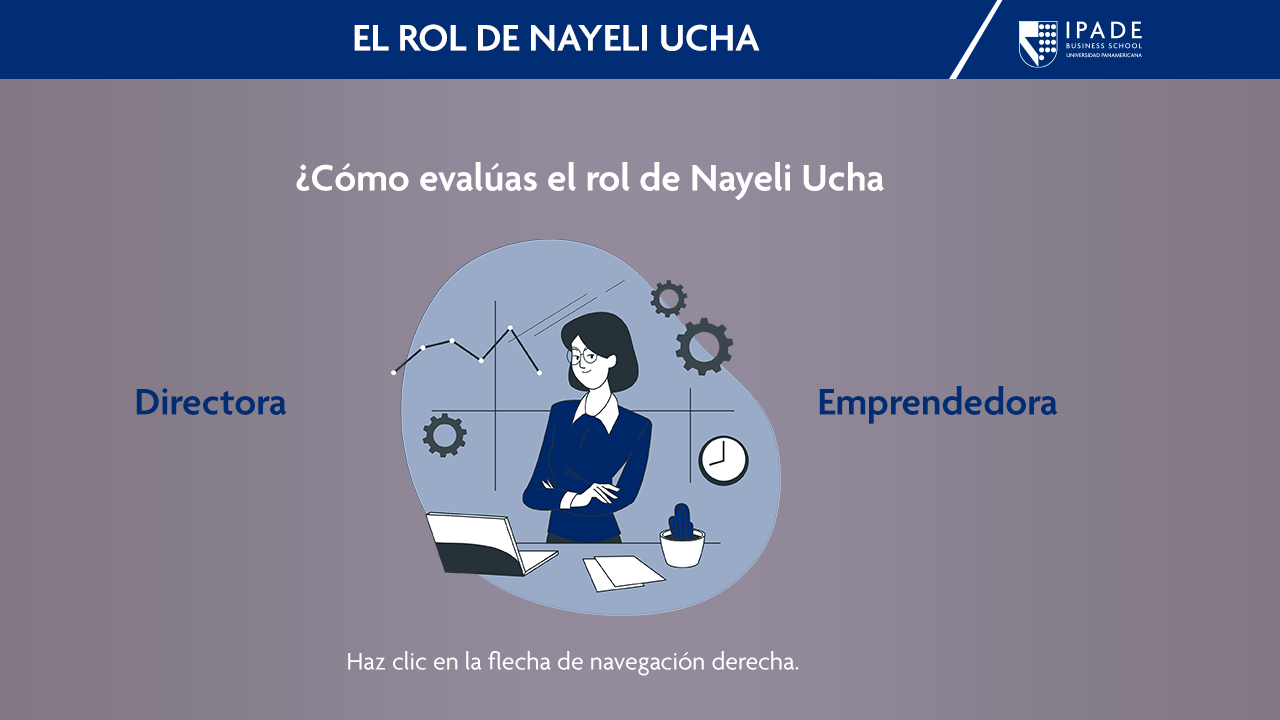
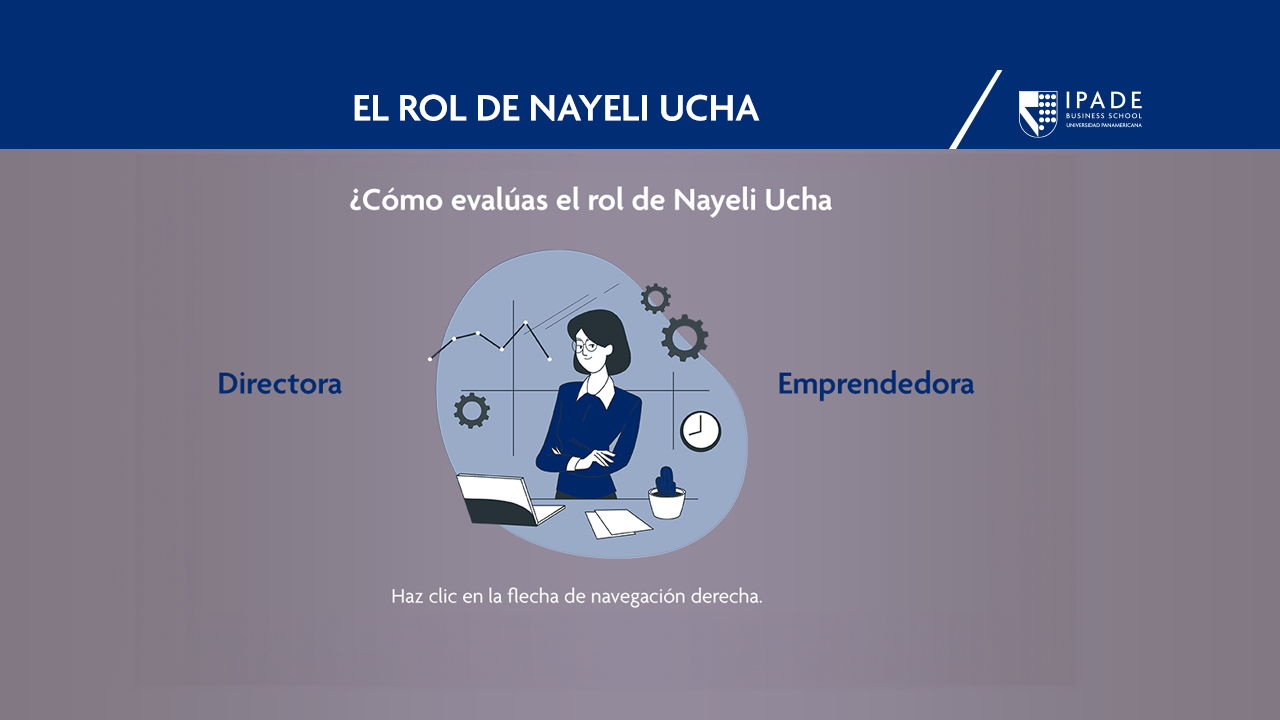
init

Changed region(s): [[0.0, 0.0, 1.0, 0.8556], [0.2812, 0.8861, 0.625, 0.9472], [0.0938, 0.5194, 0.2812, 0.5806]]

diff --git a/contenido3.html b/contenido3.html
@@ -48,7 +48,7 @@
       <h1 class="titulo">En general, ¿cómo evalúas a Nayeli Ucha como emprendedora?</h1>
       <p style="color: white; font-size: 18px;">Ahora, evalúa el trabajo de Nayeli como emprendedora con base en los siguientes criterios:</p><br><br>
       <div class="conte_imagenes" id="item1">
-        <div class="item" id="item1" onclick="goToPage('page2', 'siguiente2')">
+        <div class="item" id="item1" onclick="goToPage('page2', 'siguiente2', 'explicacion1', 'subtitulo1')">
           <img src="images/img2_01_sm.png" alt="Imagen 1">
           <p class="texto_imagen">Proponer ideas relevantes</p>
         </div>
@@ -68,7 +68,7 @@
 
     <!-- Página 2 -->
     <div id="page2" class="pagina hidden">
-      <div class="subtitulo" id="subtitulo1">Rentabilidad</div>
+      <div class="subtitulo" id="subtitulo1">Proponer ideas relevantes</div>
       <h1 class="titulo">¿Qué tan buena es Nayeli proponiendo ideas relevantes? </h1>
       <div class="stars" data-page="2">
         <span class="star">&#9734;</span>
@@ -78,7 +78,7 @@
         <span class="star">&#9734;</span>
       </div>
       <p class="letras_blancas"><i>Haz clic en las estrellas para determinar tu evaluación.</i></p><br><br>
-      <div class="explicacion" id="explicacion"><i class="fa-regular fa-pen-to-square fa"></i>&nbsp;&nbsp;&nbsp;¿Por qué le otorgaste esa
+      <div class="explicacion" id="explicacion1"><i class="fa-regular fa-pen-to-square fa"></i>&nbsp;&nbsp;&nbsp;¿Por qué le otorgaste esa
         valoración?</div>
       <textarea id="comment2" placeholder="Escribe tu respuesta aquí…" class="responder"></textarea>
       <div class="siguiente" id="siguiente2" onclick="goToPageIntermediate('intermediate2', 'item2')">></div>
@@ -93,7 +93,7 @@
           <img src="images/img2_01_select.png" alt="Imagen 1">
           <p class="texto_imagen">Proponer ideas relevantes</p>
         </div>
-        <div class="item" id="item2" onclick="goToPage('page3', 'siguiente3')">
+        <div class="item" id="item2" onclick="goToPage('page3', 'siguiente3', 'explicacion2', 'subtitulo2')">
           <img src="images/img2_02_sm.png" alt="Imagen 2">
           <p class="texto_imagen">Atraer recursos</p>
         </div>
@@ -109,6 +109,7 @@
 
     <!-- Página 3 -->
     <div id="page3" class="pagina hidden">
+      <div class="subtitulo" id="subtitulo2">Atraer recursos</div>
       <h1 class="titulo">¿Qué tan buena es Nayeli atrayendo recursos para su empresa?</h1>
       <div class="stars" data-page="3">
         <span class="star">&#9734;</span>
@@ -118,7 +119,7 @@
         <span class="star">&#9734;</span>
       </div>
       <p class="letras_blancas"><i>Haz clic en las estrellas para determinar tu evaluación.</i></p><br><br>
-      <div class="explicacion" id="explicacion"><i class="fa-regular fa-pen-to-square fa"></i>&nbsp;&nbsp;&nbsp;¿Por qué le otorgaste esa
+      <div class="explicacion" id="explicacion2"><i class="fa-regular fa-pen-to-square fa"></i>&nbsp;&nbsp;&nbsp;¿Por qué le otorgaste esa
         valoración?</div>
       <textarea id="comment3" placeholder="Escribe tu respuesta aquí…" class="responder"></textarea>
       <div class="siguiente" id="siguiente3" onclick="goToPageIntermediate('intermediate3', 'item3')">></div>
@@ -137,7 +138,7 @@
           <img src="images/img2_02_select.png" alt="Imagen 2">
           <p class="texto_imagen">Atraer recursos</p>
         </div>
-        <div class="item"  id="item3" onclick="goToPage('page4', 'siguiente4')">
+        <div class="item"  id="item3" onclick="goToPage('page4', 'siguiente4', 'explicacion3', 'subtitulo3')">
           <img src="images/img2_03_sm.png" alt="Imagen 3">
           <p class="texto_imagen">Validar modelos de negocio</p>
         </div>
@@ -149,6 +150,7 @@
 
     <!-- Página 4 -->
     <div id="page4" class="pagina hidden">
+      <div class="subtitulo" id="subtitulo3">Validar modelos de negocio</div>
       <h1 class="titulo">¿Qué tan buena es Nayeli validando modelos de negocio? </h1>
       <div class="stars" data-page="4">
         <span class="star">&#9734;</span>
@@ -158,7 +160,7 @@
         <span class="star">&#9734;</span>
       </div>
       <p class="letras_blancas"><i>Haz clic en las estrellas para determinar tu evaluación.</i></p><br><br>
-      <div class="explicacion" id="explicacion"><i class="fa-regular fa-pen-to-square fa"></i>&nbsp;&nbsp;&nbsp;¿Por qué le otorgaste esa
+      <div class="explicacion" id="explicacion3"><i class="fa-regular fa-pen-to-square fa"></i>&nbsp;&nbsp;&nbsp;¿Por qué le otorgaste esa
         valoración?</div>
       <textarea id="comment4" placeholder="Escribe tu respuesta aquí…" class="responder"></textarea>
       <div class="siguiente" id="siguiente4" onclick="goToPageIntermediate('intermediate4', 'item4')">></div>
@@ -192,9 +194,10 @@
 
     <!-- Página de Resultados -->
     <div id="results" class="pagina hidden">
+      <h1 class="titulo">¿Cómo evalúas a Nayeli Ucha como emprendedora?</h1>
       <h1>Resultados</h1>
       <div id="resultList"></div>
-      <button id="finalBtn">Descargar resultados</button>
+      <button class="descargar" id="finalBtn">Descargar resultados</button>
     </div>
 
     <!-- Página Final -->
@@ -206,14 +209,15 @@
     <script>
       const ratings = [];
 
-      function goToPage(pageId,sigid) {
+      function goToPage(pageId,sigid,explicacionid,subtituloid) {
         document.querySelectorAll('div').forEach(div => {
           div.classList.add('hidden');
         });
         document.getElementById('bgcontenedor1').classList.remove('hidden');
-        document.getElementById('explicacion').classList.remove('hidden');
         document.getElementById(pageId).classList.remove('hidden');
+        document.getElementById(explicacionid).classList.remove('hidden');
         document.getElementById(sigid).classList.remove('hidden');
+        document.getElementById(subtituloid).classList.remove('hidden');
       }
 
       function goToPage2(pageId) {
@@ -258,25 +262,49 @@
       });
 
       // Agrega los nombres de las secciones aquí
-      const sectionNames = ['General', 'Rentabilidad', 'Competitividad', 'Permanencia'];
+      const sectionNames = ['General', 'Proponer ideas relevantes', 'Atraer recursos', 'Validar modelos de negocio'];
 
       function goToPageResults() {
-        goToPage2('results');
-        const resultList = document.getElementById('resultList');
-        resultList.innerHTML = '';
-        ratings.forEach((result, index) => {
-          const resultItem = document.createElement('div');
-          const rating = Array(result.rating).fill('&#9733;').join('') + Array(5 - result.rating).fill('&#9734;').join('');
-          const comment = document.getElementById(`comment${index + 1}`).value; // Obtener el valor del área de texto
-          resultItem.innerHTML = `
-      <h2>${sectionNames[index]}</h2>
-      <p>Rating: ${rating}</p>
-      <p>Comentario: ${comment}</p>
+  goToPage2('results');
+  const resultList = document.getElementById('resultList');
+  resultList.innerHTML = '';
+  
+  const table = document.createElement('table');
+  table.innerHTML = `
+    <thead>
+      <tr>
+        <th>Sección</th>
+        <th>Rating</th>
+        <th>Comentario</th>
+      </tr>
+    </thead>
+    <tbody>
+    </tbody>
+  `;
+  
+  const tbody = table.querySelector('tbody');
+
+  ratings.forEach((result, index) => {
+    const tr = document.createElement('tr');
+    
+    // Crear la representación de las estrellas
+    const rating = Array(result.rating).fill('&#9733;').join('') + Array(5 - result.rating).fill('&#9734;').join('');
+    
+    // Obtener el comentario del área de texto
+    const comment = document.getElementById(`comment${index + 1}`).value; 
+    
+    tr.innerHTML = `
+      <td>${sectionNames[index]}</td>
+      <td>${rating}</td>
+      <td>${comment}</td>
     `;
-          resultList.appendChild(resultItem);
-          resultList.classList.remove('hidden');
-        });
-      }
+    
+    tbody.appendChild(tr);
+  });
+
+  resultList.appendChild(table);
+  resultList.classList.remove('hidden');
+}
 
       window.onload = function () {
       document.getElementById('finalBtn').addEventListener('click', () => {
@@ -293,7 +321,7 @@
           const imgHeight = (canvas.height * imgWidth) / canvas.width;
 
           doc.addImage(imgData, 'PNG', 0, 0, imgWidth, imgHeight);
-          doc.save('Resultados_01.pdf'); // Descarga el archivo PDF
+          doc.save('Resultados_02.pdf'); // Descarga el archivo PDF
         });
       });
     };

diff --git a/style.css b/style.css
@@ -170,7 +170,7 @@ body {
   font-family: Arial, Helvetica, sans-serif;
   text-align: right;
   margin-left: 198px;
-  transform: translateX(10px);
+  transform: translateX(141px);
 }
 
 .flecha_izquierda {
@@ -816,7 +816,7 @@ body {
 
 .pagina {
   position: absolute;
-  margin-top: 133px;
+  margin-top: 168px;
   margin-left: 80px;
   width: 89%;
 }
@@ -944,8 +944,8 @@ body {
 
 .siguientebtn {
   position: absolute;
-  margin-top: -30px;
-  margin-left: 728px;
+  margin-top: -185px;
+  margin-left: 1081px;
   cursor: pointer;
   color: #f1e4b2;
   font-weight: bolder;
@@ -972,16 +972,16 @@ body {
   padding: 8px;
 }
 
-.letras_blancas{
+.letras_blancas {
   color: white;
 }
 
-.subtitulo{
+.subtitulo {
   color: white;
   background: #bc955c;
   border-radius: 10px;
   position: absolute;
-  margin-top: -57px;
+  margin-top: -55px;
   padding: 5px;
   font-size: 20px;
   margin-bottom: 47px;

diff --git a/index.html b/index.html
@@ -11,7 +11,7 @@
 <body>
     <div class="very-specific-design" id="very-specific-design">
 		
-        <iframe src="contenido2.html" frameborder="0" width="100%" height="100%"></iframe>
+        <iframe src="home.html" frameborder="0" width="100%" height="100%"></iframe>
 
         <button class="js-toggle-fullscreen-btn toggle-fullscreen-btn" aria-label="Enter fullscreen mode" hidden>
             <svg class="toggle-fullscreen-svg" width="28" height="28" viewBox="-2 -2 28 28">

diff --git a/contenido2.html b/contenido2.html
@@ -198,6 +198,7 @@
 
     <!-- Página de Resultados -->
     <div id="results" class="pagina hidden">
+      <h1 class="titulo">¿Cómo evalúas a Nayeli Ucha como directora?</h1>
       <h1>Resultados</h1>
       <div id="resultList"></div>
       <button class="descargar" id="finalBtn">Descargar resultados</button>
